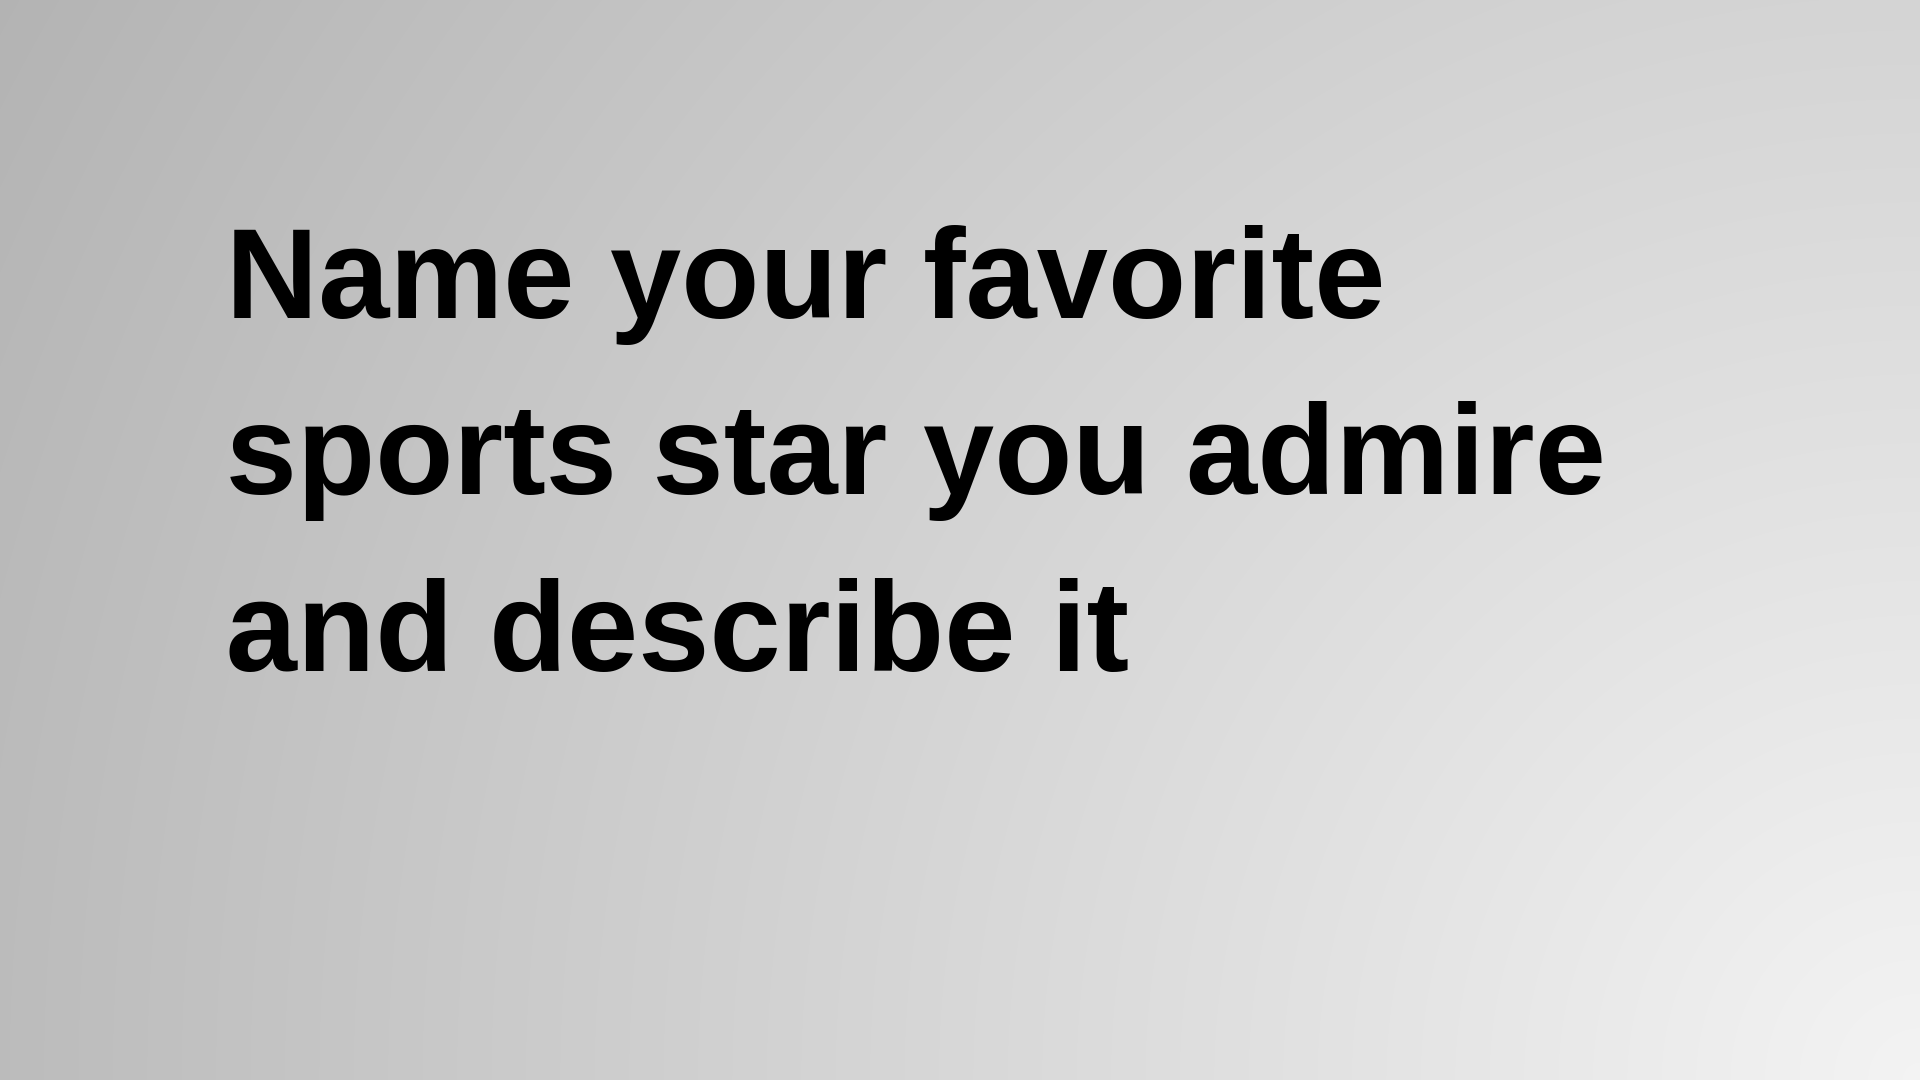
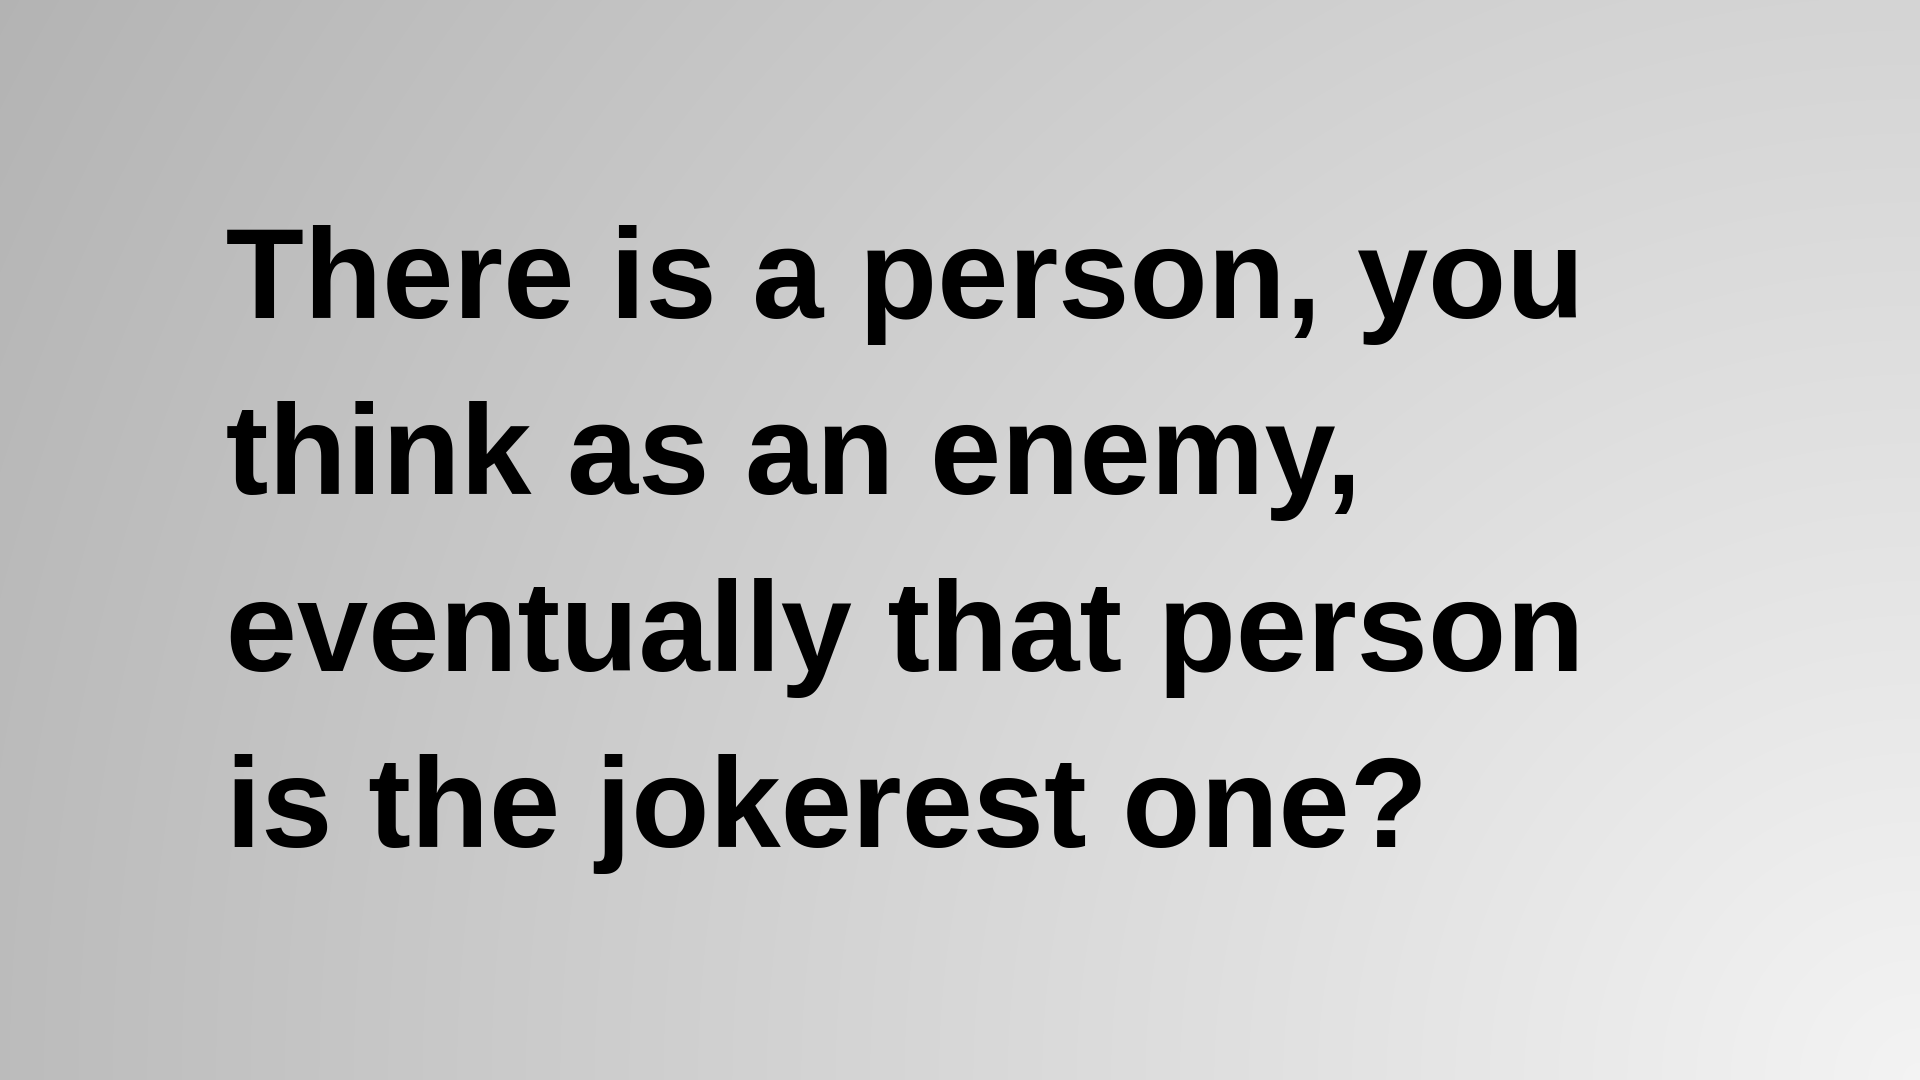
Pro-Doc

diff --git a/index.html b/index.html
@@ -14,7 +14,9 @@
   <link href="assets/img/apple-touch-icon.png" rel="apple-touch-icon">
 
   <!-- Google Fonts -->
-  <link href="https://fonts.googleapis.com/css?family=Open+Sans:300,300i,400,400i,600,600i,700,700i|Raleway:300,300i,400,400i,500,500i,600,600i,700,700i|Poppins:300,300i,400,400i,500,500i,600,600i,700,700i" rel="stylesheet">
+  <link
+    href="https://fonts.googleapis.com/css?family=Open+Sans:300,300i,400,400i,600,600i,700,700i|Raleway:300,300i,400,400i,500,500i,600,600i,700,700i|Poppins:300,300i,400,400i,500,500i,600,600i,700,700i"
+    rel="stylesheet">
 
   <!-- Vendor CSS Files -->
   <link href="assets/vendor/bootstrap/css/bootstrap.min.css" rel="stylesheet">
@@ -36,8 +38,8 @@
   <header id="header">
     <div class="container">
 
-      <h1 style="font-size: 80px; color: black;">Sports</h1>
-      
+      <h1 style="font-size: 80px; color: black;">Enemy</h1>
+
 
       <nav id="navbar" class="navbar">
         <ul>
@@ -58,31 +60,33 @@
 
       <div class="section-title">
         <h2>WORD</h2>
-        <p style="font-size: 60px;">Word Of The Day</p><br><br><br>
+        <p style="font-size: 60px; color: white;">Word Of The Day</p><br><br><br>
       </div>
 
       <div class="row">
         <div class="col-lg-4" data-aos="fade-right">
-          <img src="https://images.unsplash.com/photo-1579952363873-27f3bade9f55?q=80&w=1000&auto=format&fit=crop&ixlib=rb-4.0.3&ixid=M3wxMjA3fDB8MHxwaG90by1wYWdlfHx8fGVufDB8fHx8fA%3D%3D" class="img-fluid" alt="">
+          <img
+            src="https://images.unsplash.com/photo-1579952363873-27f3bade9f55?q=80&w=1000&auto=format&fit=crop&ixlib=rb-4.0.3&ixid=M3wxMjA3fDB8MHxwaG90by1wYWdlfHx8fGVufDB8fHx8fA%3D%3D"
+            class="img-fluid" alt="">
         </div>
         <div class="col-lg-8 pt-4 pt-lg-0 content" data-aos="fade-left">
-          <h2 style="font-size: 60px; margin-left: 20px;"><b>Composure</b></h2>
+          <h2 style="font-size: 60px; margin-left: 20px;"><b>Hellacious</b></h2>
           <p style="font-size: 33px; margin-left: 20px;"><b>
-            This emphasizes maintaining emotional control and thinking clearly under pressure, essential for peak performance          </b></p><br><br>
+            exceptionally powerful or violent .</b></p><br><br>
 
-          <p style="font-size: 27px;margin-left: 20px;">Synonyms: Poise, Equanimity, Calmness, Serenity, Cool-headedness
-                    </p><br><br>
-         
+          <p style="font-size: 27px;margin-left: 20px;">Synonyms: terrible,violent,frightful
+          </p><br><br>
+
           <p style="font-size: 29px;margin-left: 20px;">
-            he struggled to regain his <b>composure.</b>       </p><br><br><br><br>
+            Traffic is<b>hellacious</b> this time of day.</p><br><br><br><br>
         </div>
       </div>
 
     </div><!-- End About Me -->
-        <div class="owl-carousel testimonials-carousel">
+    <div class="owl-carousel testimonials-carousel">
 
-        </div>
-    </section><!-- End About Section -->
+    </div>
+  </section><!-- End About Section -->
 
 
   <!-- ======= Portfolio Section ======= -->
@@ -99,12 +103,15 @@
 
         <div class="col-lg-4 col-md-6 portfolio-item filter-app">
           <div class="portfolio-wrap">
-            <img src="assets/img/DALL·E 2024-04-04 21.36.54 - Create an image featuring the number 1 with a plain black background. The number should be designed in a luxurious gold color, and it must have a 3D e.webp" class="img-fluid" alt="">
+            <img
+              src="assets/img/DALL·E 2024-04-04 21.36.54 - Create an image featuring the number 1 with a plain black background. The number should be designed in a luxurious gold color, and it must have a 3D e.webp"
+              class="img-fluid" alt="">
             <div class="portfolio-info">
               <h4>Q1</h4>
               <div class="portfolio-links">
                 <!-- Quesstion 1 image -->
-                <a href="1.png" data-gallery="portfolioGallery" class="portfolio-lightbox" ><i class="bx bx-plus"></i></a>
+                <a href="1.png" data-gallery="portfolioGallery" class="portfolio-lightbox"><i
+                    class="bx bx-plus"></i></a>
               </div>
             </div>
           </div>
@@ -112,12 +119,15 @@
 
         <div class="col-lg-4 col-md-6 portfolio-item filter-web">
           <div class="portfolio-wrap">
-            <img src="assets/img/DALL·E 2024-04-04 21.59.58 - Create an image featuring the number 2 prominently in the center, with a sleek, shiny gold appearance, giving it a luxurious and 3D effect. The backgr.webp" class="img-fluid" alt="">
+            <img
+              src="assets/img/DALL·E 2024-04-04 21.59.58 - Create an image featuring the number 2 prominently in the center, with a sleek, shiny gold appearance, giving it a luxurious and 3D effect. The backgr.webp"
+              class="img-fluid" alt="">
             <div class="portfolio-info">
               <h4>Q2</h4>
               <div class="portfolio-links">
-                                <!-- Quesstion 2 image -->
-                <a href="2.png" data-gallery="portfolioGallery" class="portfolio-lightbox" ><i class="bx bx-plus"></i></a>
+                <!-- Quesstion 2 image -->
+                <a href="2.png" data-gallery="portfolioGallery" class="portfolio-lightbox"><i
+                    class="bx bx-plus"></i></a>
               </div>
             </div>
           </div>
@@ -137,42 +147,51 @@
 
         <div class="col-lg-4 col-md-6 portfolio-item filter-card">
           <div class="portfolio-wrap">
-            <img src="assets/img/DALL·E 2024-04-04 22.01.51 - Create an image showcasing the number 3 prominently in the center, rendered in a luxurious, shiny gold with a 3D effect to make it stand out. The back.webp" class="img-fluid" alt="">
+            <img
+              src="assets/img/DALL·E 2024-04-04 22.01.51 - Create an image showcasing the number 3 prominently in the center, rendered in a luxurious, shiny gold with a 3D effect to make it stand out. The back.webp"
+              class="img-fluid" alt="">
             <div class="portfolio-info">
               <h4>Q3</h4>
               <div class="portfolio-links">
-                <a href="3.png" data-gallery="portfolioGallery" class="portfolio-lightbox"><i class="bx bx-plus"></i></a>
+                <a href="3.png" data-gallery="portfolioGallery" class="portfolio-lightbox"><i
+                    class="bx bx-plus"></i></a>
               </div>
             </div>
           </div>
         </div>
 
-        
+
         <div class="col-lg-4 col-md-6 portfolio-item filter-app">
           <div class="portfolio-wrap">
-            <img src="assets/img/DALL·E 2024-04-04 22.03.45 - Design an image with the number 4 at the forefront, crafted in a radiant, shiny gold texture that boasts a 3D effect, making it pop against a stark, p.webp" class="img-fluid" alt="">
+            <img
+              src="assets/img/DALL·E 2024-04-04 22.03.45 - Design an image with the number 4 at the forefront, crafted in a radiant, shiny gold texture that boasts a 3D effect, making it pop against a stark, p.webp"
+              class="img-fluid" alt="">
             <div class="portfolio-info">
               <h4>Q4</h4>
               <div class="portfolio-links">
-                <a href="4.png" data-gallery="portfolioGallery" class="portfolio-lightbox" ><i class="bx bx-plus"></i></a>
+                <a href="4.png" data-gallery="portfolioGallery" class="portfolio-lightbox"><i
+                    class="bx bx-plus"></i></a>
               </div>
             </div>
           </div>
         </div>
-        
-        
+
+
         <div class="col-lg-4 col-md-6 portfolio-item filter-card">
           <div class="portfolio-wrap">
-            <img src="assets/img/DALL·E 2024-04-04 22.07.04 - Craft an image where the number 5 is displayed prominently in the center, rendered in a luxurious, shiny gold with a 3D effect that stands out vividly.webp" class="img-fluid" alt="">
+            <img
+              src="assets/img/DALL·E 2024-04-04 22.07.04 - Craft an image where the number 5 is displayed prominently in the center, rendered in a luxurious, shiny gold with a 3D effect that stands out vividly.webp"
+              class="img-fluid" alt="">
             <div class="portfolio-info">
               <h4>Q5</h4>
               <div class="portfolio-links">
-                <a href="5.png" data-gallery="portfolioGallery" class="portfolio-lightbox"><i class="bx bx-plus"></i></a>
+                <a href="5.png" data-gallery="portfolioGallery" class="portfolio-lightbox"><i
+                    class="bx bx-plus"></i></a>
               </div>
             </div>
           </div>
         </div>
-        
+
         <!-- <div class="col-lg-4 col-md-6 portfolio-item filter-web">
           <div class="portfolio-wrap">
             <img src="assets/img/DALL·E 2024-03-26 20.25.12 - Design an elegant and romantic image of the number '6' in a wedding theme. The number should be beautifully adorned with wedding-related elements such.webp" class="img-fluid" alt="">
@@ -209,10 +228,10 @@
         </div>
       </div>
        -->
-    </div>
+      </div>
   </section><!-- End Portfolio Section -->
 
-  
+
 
 
 

diff --git a/assets/css/style.css b/assets/css/style.css
@@ -20,7 +20,7 @@ body {
 body::before {
   content: "";
   position: fixed;
-  background: transparent url(https://c4.wallpaperflare.com/wallpaper/713/807/707/ring-flag-olympics-flag-wallpaper-preview.jpg) top right no-repeat;
+  background: transparent url(https://wallpapercave.com/wp/HG8ulFz.jpg) top right no-repeat;
   background-size: cover;
   left: 0;
   right: 0;
@@ -41,7 +41,7 @@ a {
 }
 
 a:hover {
-  color: black;
+  color: white;
   text-decoration: none;
 }
 
@@ -115,7 +115,7 @@ h6 {
   justify-content: center;
   align-items: center;
   background: rgba(255, 255, 255, 0.1);
-  color: #fff;
+  color: black;
   line-height: 1;
   margin-right: 8px;
   border-radius: 50%;
@@ -124,7 +124,7 @@ h6 {
 }
 
 #header .social-links a:hover {
-  background: black;
+  background: white;
 }
 
 @media (max-width: 992px) {
@@ -249,7 +249,7 @@ h6 {
   height: 5px;
   bottom: -4px;
   left: 0;
-  background-color: white;
+  background-color: black;
   visibility: hidden;
   width: 0px;
   transition: all 0.3s ease-in-out 0s;
@@ -273,7 +273,7 @@ h6 {
 * Mobile Navigation 
 */
 .mobile-nav-toggle {
-  color: #fff;
+  color: white;
   font-size: 30px;
   cursor: pointer;
   display: none;
@@ -301,7 +301,7 @@ h6 {
   right: 0;
   left: 0;
   bottom: 0;
-  background: black;
+  background: white;
   transition: 0.3s;
   z-index: 999;
   margin-top: 0;
@@ -385,7 +385,7 @@ section .container {
   margin: 0 0 20px 0;
   letter-spacing: 2px;
   text-transform: uppercase;
-  color: #aaaaaa;
+  color: black;
   font-family: "Poppins", sans-serif;
 }
 
@@ -394,7 +394,7 @@ section .container {
   width: 120px;
   height: 1px;
   display: inline-block;
-  background: white;
+  background: black;
   margin: 4px 10px;
 }
 
@@ -405,7 +405,7 @@ section .container {
   font-weight: 700;
   text-transform: uppercase;
   font-family: "Poppins", sans-serif;
-  color: #fff;
+  color: black;
 }
 
 /*--------------------------------------------------------------
@@ -475,7 +475,7 @@ section .container {
   font-size: 36px;
   display: block;
   font-weight: 600;
-  color: #fff;
+  color: black;
 }
 
 .counts .count-box p {
